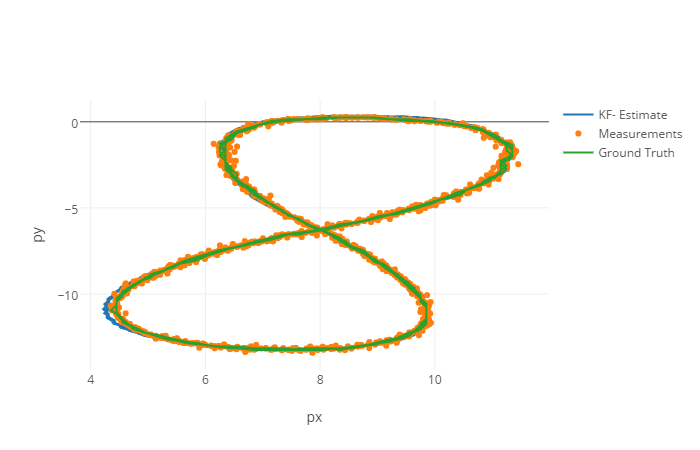
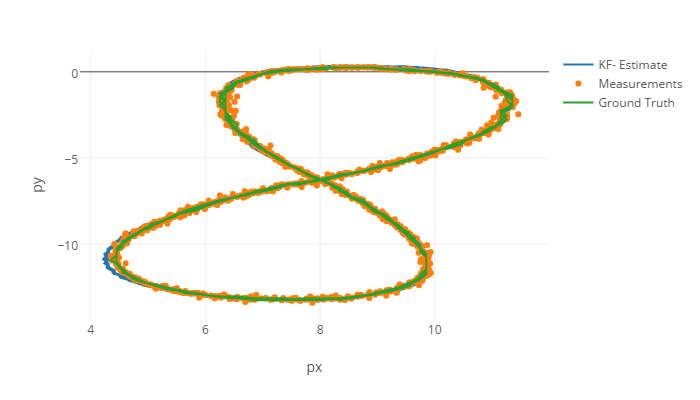
visualizations

diff --git a/README.md b/README.md
@@ -7,19 +7,26 @@ This work is part of the Self-Driving Car Engineer Nanodegree Program.
 
 [//]: # (Image References)
 [simulation]: ./img/simulation.png
+[sample1]: ./img/sample1_p.png
+[sample2]: ./img/sample2_p.png
 
-## Simulation
+## Results
+### Simulator
 In order to test the program I used a visualization tool provided by Udacity that plots noisy lidar and radar measurements as a simulated car drives in a figure eight pattern. 
 However, we should note that in the real world application the radar will be placed fixed to the car, so the origin will always be at the same position as the car. In the real case we are tracking pedestrians, not the car itself.
 In the next figure we can see the lidar and radar position measurements (as red and blue circles respectively) as well as the filter estimations (as green triangles).
+
 ![Simulator][simulation]
+
 We can also see the Root Mean Squared Error (RMSE) of the estimations for each step in the UI. 
 This numbers may be considered as standard deviation errors for the estimations. 
 That means that our position estimates have an error of approximately 0.1m while for the velocity we have 0.4 m/s.
 
+### Input measurements
 The program was also tested with a set of input measurements from the files in the folder `data\`.
-In these cases I obtained the following RMSE values at the end of the loop:
-- For the input `sample-laser-radar-measurement-data-1.txt`:
+
+#### Data 1
+- For the input `sample-laser-radar-measurement-data-1.txt` the RMSE values obtained were:
   ```
   Accuracy - RMSE:
   px: 0.0651649
@@ -27,7 +34,13 @@ In these cases I obtained the following RMSE values at the end of the loop:
   vx: 0.539999
   vz: 0.54419
   ```
-- For the input `sample-laser-radar-measurement-data-2.txt`:
+  
+Here it's a plot of the x and y position measured, estimated and ground truth values
+
+![Data 1][sample1]
+
+#### Data 2
+- For the input `sample-laser-radar-measurement-data-2.txt` the RMSE values obtained were:
   ```
   Accuracy - RMSE:
   px: 0.185496
@@ -35,6 +48,10 @@ In these cases I obtained the following RMSE values at the end of the loop:
   vx: 0.476754
   vz: 0.804469
   ```
+  
+Here it's a plot of the x and y position measured, estimated and ground truth values
+
+![Data 2][sample2]
 
 ## Source files hierarchy and description
 - main.cpp : Main program. Reads in measurements and apply Sensor Fusion algorithm.
